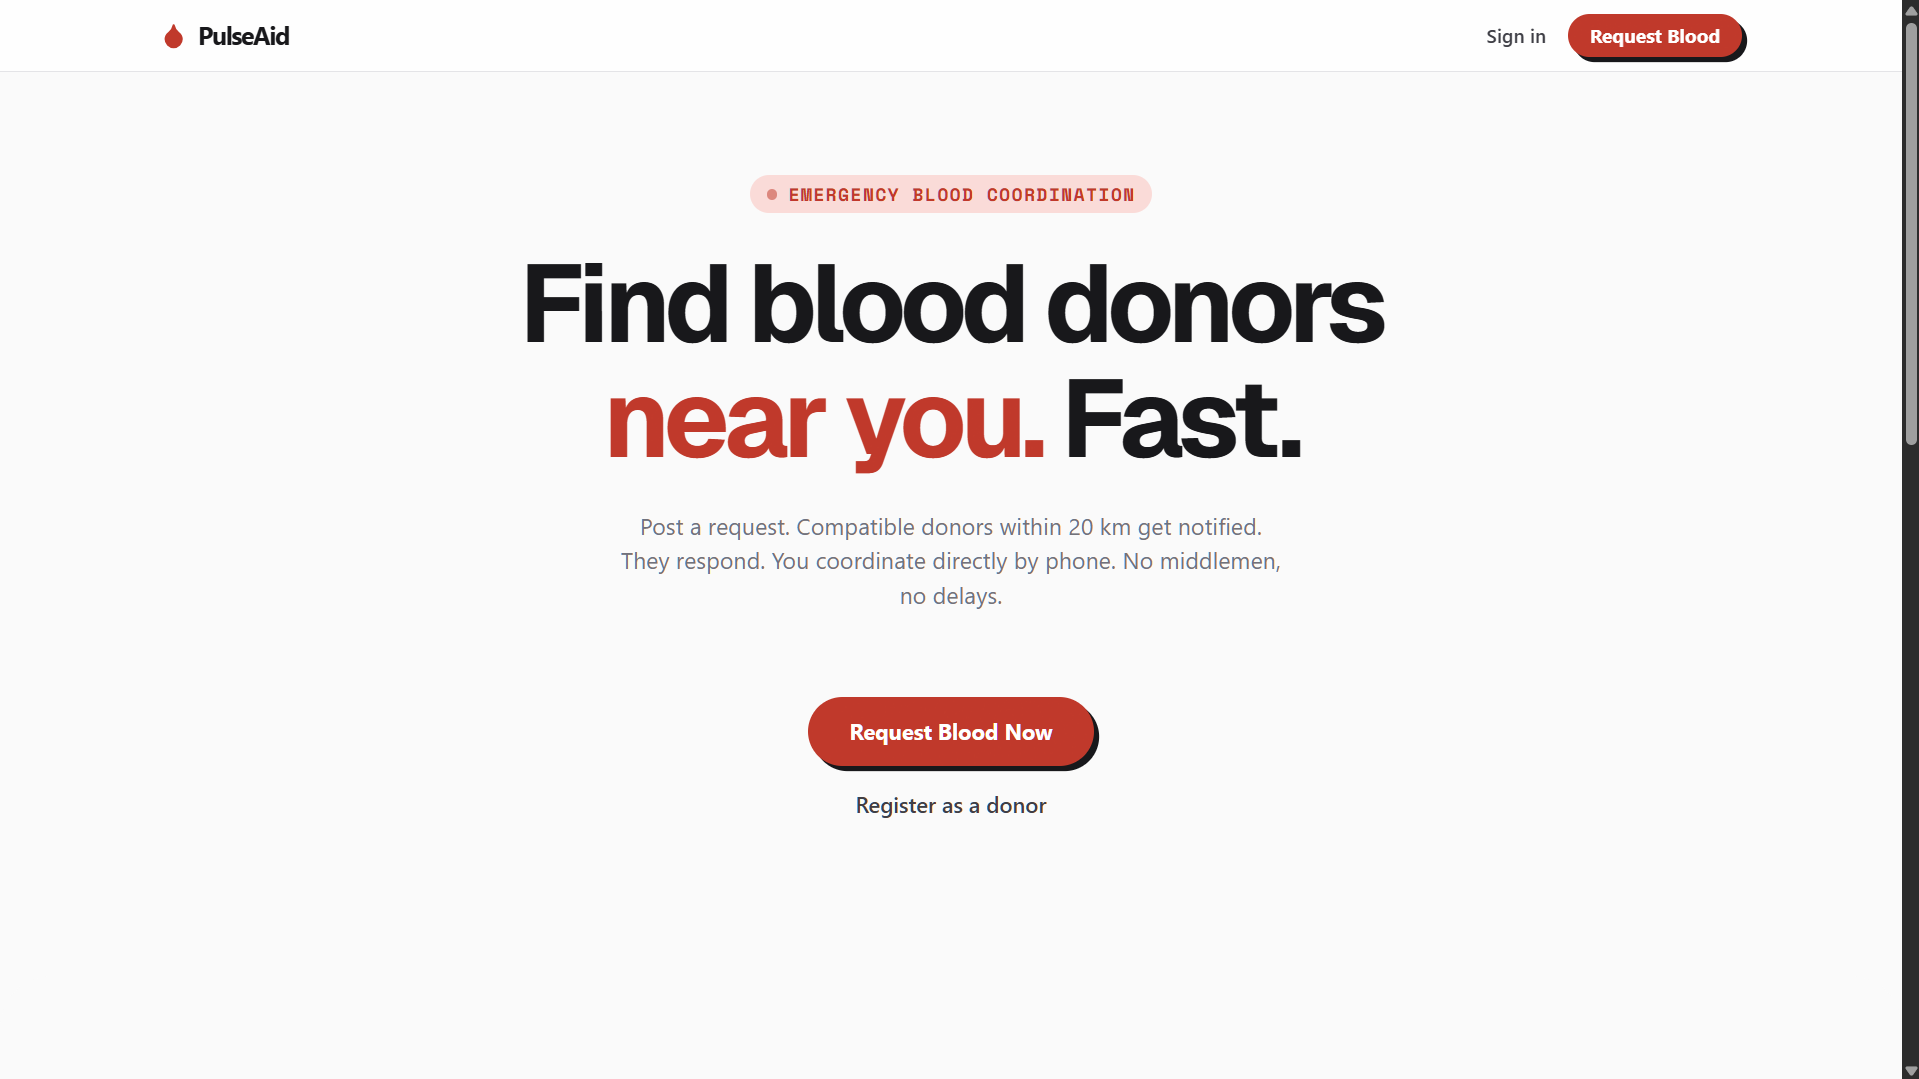
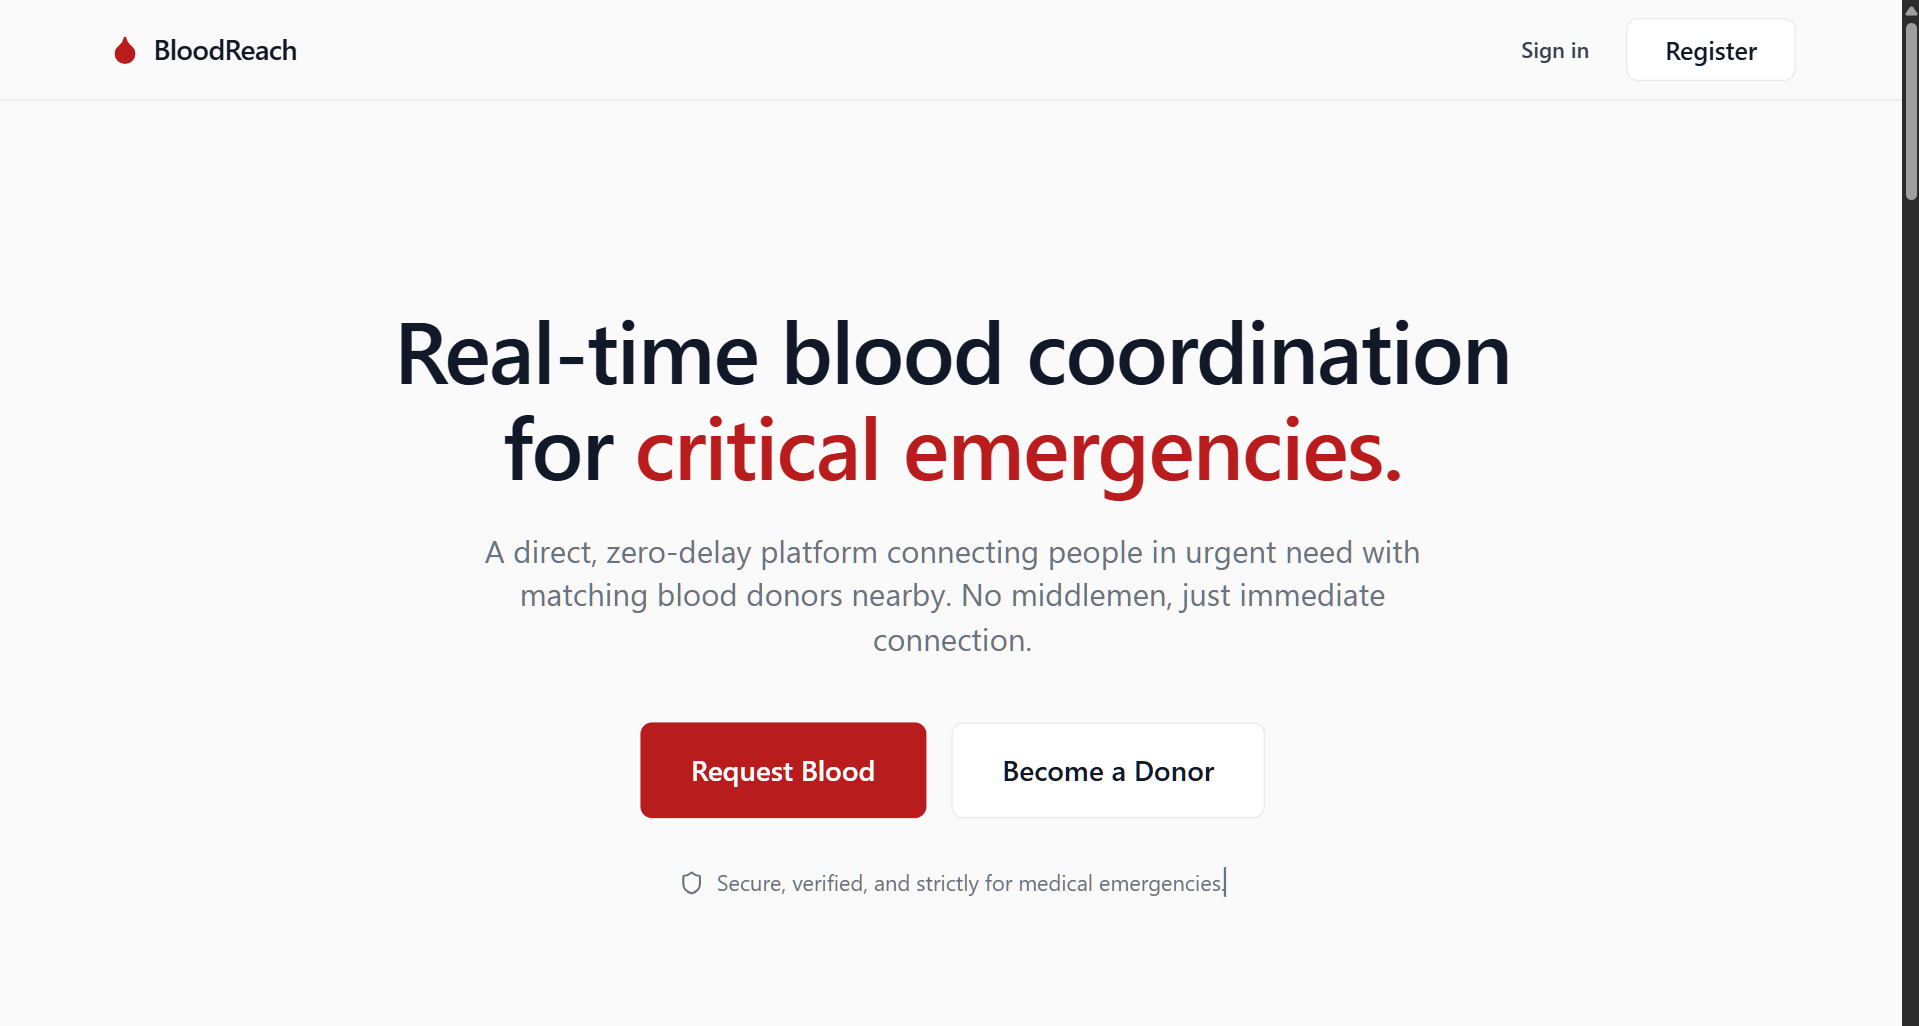
docs: rewrite README and spec for BloodReach identity

diff --git a/frontend/src/app/dashboard/page.tsx b/frontend/src/app/dashboard/page.tsx
@@ -119,7 +119,7 @@ export default function DashboardPage() {
             if (req?.contact_phone) {
                 await AlertService.sendSMS(
                     req.contact_phone,
-                    `PULSE-AID ALERT: Good news! ${profile?.full_name || 'A donor'} has offered to donate blood for ${req.patient_name || 'your request'}. They may contact you shortly. Please check your dashboard for details.`
+                    `BloodReach ALERT: Good news! ${profile?.full_name || 'A donor'} has offered to donate blood for ${req.patient_name || 'your request'}. They may contact you shortly. Please check your dashboard for details.`
                 );
             }
 
@@ -220,7 +220,7 @@ export default function DashboardPage() {
                         </div>
                     )}
 
-                    {/* ROW 1: Identity Panel (4 cols) + Live Pulse Feed (8 cols) */}
+                    {/* ROW 1: Identity Panel (4 cols) + Live Feed Feed (8 cols) */}
                     
                     {/* User Profile Card */}
                     <div className="lg:col-[1/5] lg:row-start-1 bg-white rounded-[var(--radius-card)] shadow-[var(--shadow-clay)] p-6 min-h-[200px] flex flex-col justify-between">
@@ -248,7 +248,7 @@ export default function DashboardPage() {
                         </Link>
                     </div>
 
-                    {/* Live Pulse Card */}
+                    {/* Live Feed Card */}
                     <div className="lg:col-[5/13] lg:row-start-1">
                         <ActivityTimeline />
                     </div>

diff --git a/frontend/src/app/request/[id]/page.tsx b/frontend/src/app/request/[id]/page.tsx
@@ -193,7 +193,7 @@ export default function RequestDetailPage() {
             if (request?.contact_phone) {
                 await AlertService.sendSMS(
                     request.contact_phone, 
-                    `PULSE-AID ALERT: Good news! ${currentUserProfile.full_name || 'A donor'} has offered to donate blood for ${request.patient_name}. They may contact you shortly.`
+                    `BloodReach ALERT: Good news! ${currentUserProfile.full_name || 'A donor'} has offered to donate blood for ${request.patient_name}. They may contact you shortly.`
                 );
             }
             

diff --git a/frontend/src/app/sign-in/[[...sign-in]]/page.tsx b/frontend/src/app/sign-in/[[...sign-in]]/page.tsx
@@ -8,7 +8,7 @@ export default function SignInPage() {
             <div className="w-full max-w-md">
                 <div className="text-center mb-8">
                     <h1 className="text-5xl font-extrabold text-brand-red tracking-tight mb-2">
-                        Pulse<span className="text-brand-blue">Aid</span>
+                        BloodReach
                     </h1>
                     <p className="text-lg text-brand-steel">
                         Welcome back to emergency blood coordination

diff --git a/frontend/src/app/sign-up/[[...sign-up]]/page.tsx b/frontend/src/app/sign-up/[[...sign-up]]/page.tsx
@@ -8,7 +8,7 @@ export default function SignUpPage() {
             <div className="w-full max-w-md">
                 <div className="text-center mb-8">
                     <h1 className="text-5xl font-extrabold text-brand-red tracking-tight mb-2">
-                        Pulse<span className="text-brand-blue">Aid</span>
+                        BloodReach
                     </h1>
                     <p className="text-lg text-brand-steel">
                         Join the life-saving community

diff --git a/frontend/src/components/RequestDetailDrawer.tsx b/frontend/src/components/RequestDetailDrawer.tsx
@@ -156,7 +156,7 @@ export function RequestDetailDrawer({ requestId, onClose, onActionComplete }: Pr
             if (request?.contact_phone) {
                 await AlertService.sendSMS(
                     request.contact_phone,
-                    `PULSE-AID ALERT: ${currentUserProfile.full_name || "A donor"} has offered to donate blood for ${request.patient_name}. They may contact you shortly.`
+                    `BloodReach ALERT: ${currentUserProfile.full_name || "A donor"} has offered to donate blood for ${request.patient_name}. They may contact you shortly.`
                 );
             }
             await fetchRequest();

diff --git a/frontend/src/components/dashboard/ActivityTimeline.tsx b/frontend/src/components/dashboard/ActivityTimeline.tsx
@@ -55,7 +55,7 @@ export function ActivityTimeline() {
     return (
         <div className="bg-white rounded-[var(--radius-card)] shadow-[var(--shadow-clay)] flex flex-col h-[360px] overflow-hidden relative">
             <div className="flex items-center justify-between p-[24px] pb-[16px] sticky top-0 bg-white z-10 border-b border-[var(--color-base-200)]">
-                <h3 className="font-display font-bold text-[0.9375rem] text-[var(--color-base-900)]">Live Pulse</h3>
+                <h3 className="font-display font-bold text-[0.9375rem] text-[var(--color-base-900)]">Live Feed</h3>
                 <div className="bg-[var(--color-safe-light)] text-[var(--color-safe)] font-mono text-[0.625rem] rounded-[var(--radius-pill)] px-[10px] py-[4px] font-bold flex items-center gap-1.5 uppercase tracking-widest">
                     <span className="w-1.5 h-1.5 rounded-full bg-[var(--color-safe)] animate-pulse" />
                     LIVE

diff --git a/frontend/src/components/dashboard/CommunityAnalytics.tsx b/frontend/src/components/dashboard/CommunityAnalytics.tsx
@@ -12,7 +12,7 @@ export function CommunityAnalytics() {
                 <h3 className="font-display font-bold text-[1.125rem] tracking-tight">Community Analytics</h3>
                 <span className="flex items-center gap-1.5 px-2 py-1 rounded-full bg-zinc-800 border border-zinc-700 text-[10px] font-mono uppercase tracking-widest text-zinc-300">
                     <span className="w-1.5 h-1.5 rounded-full bg-[var(--color-blood)] animate-pulse" />
-                    Network Pulse
+                    Network Activity
                 </span>
             </div>
 

diff --git a/README.md b/README.md
@@ -1,68 +1,86 @@
-# 🩸 PulseAid
-### **The AI-Powered Emergency Blood Command Center**
+# 🩸 BloodReach
 
-![PulseAid Landing Page](./frontend/public/hero-screenshot.png)
+### **Real-time emergency blood coordination, built for precision when every second counts.**
 
-PulseAid is a project I built to solve a problem that hits home for many: the chaotic, frantic search for blood donors during medical emergencies. 
-
-Instead of relying on scattered WhatsApp forwards and hoping for a miracle, PulseAid is a high-speed, direct coordination platform that connects families with compatible donors in their immediate vicinity. No noise, no spam—just action when every second counts.
+BloodReach is a high-trust, minimalist platform designed to bridge the gap between medical emergencies and life-saving donors. Built with a focus on reducing cognitive load and prioritizing action over engagement, it transforms the chaotic search for blood into a structured, immediate coordination system.
 
 ---
 
-## 🧠 Why this is different (The AI Edge)
-Most platforms fail because they force users to fill out long, tedious forms during a crisis. **I solved this using AI.**
+## 🏛️ Design Philosophy
 
-One of the core features I implemented is a **Natural Language Emergency Parser**. Powered by **Groq and Llama-3**, it allows a frantic family member to simply type:
-> *"Urgent! Need 3 units of B+ at Manipal Hospital for surgery, please help!"*
+In an emergency, users are often under extreme stress and unable to think clearly. BloodReach adheres to a strict **Minimalist Healthcare Design System**:
 
-The AI instantly extracts the blood group, urgency level, units, and hospital name, auto-filling the entire request flow. It turns panic into structured data in milliseconds.
-
----
-
-## ⚡ Key Features
-- **AI-Driven Entry**: Skip the forms. Type naturally, let the AI handle the data extraction.
-- **Precision Alerts**: Donors are only notified if their blood type matches and they are within a 20km radius. 
-- **The "Cockpit" Dashboard**: A premium, editorial-style command center that tracks network pulse and emergency requests without the clutter.
-- **Availability Toggle**: A "No-BS" way for donors to go invisible when they can't help, preventing unnecessary pings.
-- **Privacy First**: Direct phone connection for matched donors—no middlemen, no complex chat interfaces.
+- **Reduced Cognitive Load**: No "startup flashy" visuals, loud gradients, or complex dashboard clutter.
+- **Calm, Neutral Palette**: A professional environment using deep reds for critical actions and neutral tones for structure.
+- **Editorial Clarity**: High-contrast typography (Geist/Inter) and generous whitespace to ensure information is scannable in seconds.
+- **Trust-First Architecture**: Built to feel like a stable healthcare utility, not a social media tool.
 
 ---
 
-## 🛠️ The Tech Stack
-I chose a modern, high-performance stack to ensure the app is both beautiful and bulletproof:
-- **Frontend**: Next.js 15 (App Router) + Tailwind CSS + Framer Motion.
-- **AI Engine**: Groq SDK + Llama-3-70b (for sub-200ms parsing).
-- **Backend**: Supabase (PostgreSQL + Realtime) & Django.
-- **Auth**: Clerk (Secure, modern identity management).
+## 🧠 The AI Engine
+
+One of the platform's core breakthroughs is the **Natural Language Emergency Parser**. Powered by **Llama-3 (Groq)**, it allows users to bypass tedious forms during a crisis.
+
+Family members can simply describe the situation in plain text:
+> *"Help! Need 2 units of O-negative at Apollo Hospital Jubilee Hills for a surgery scheduled in 1 hour."*
+
+The AI instantly extracts:
+- **Blood Group**: `O-`
+- **Urgency**: `IMMEDIATE`
+- **Location**: `Apollo Hospital, Jubilee Hills`
+- **Units**: `2`
+
+This turns raw panic into actionable, structured data in under 200ms.
 
 ---
 
-## 🚀 Running it locally
+## ⚡ Core Features
 
-### 1. The Frontend (Next.js)
+- **AI-Powered Rapid Entry**: Natural language processing to eliminate form friction.
+- **Precision Geo-Alerting**: Donors are only notified if they match the blood type and are within the immediate 20km radius.
+- **Live Activity Feed**: A real-time timeline of requests and responses to maintain network momentum.
+- **Donor Integrity Control**: A "One-Click" availability toggle and a medical-grade recovery cooldown system.
+- **Privacy-First Connection**: Direct coordination without intermediaries, ensuring speed and data sovereignty.
+
+---
+
+## 🛠️ The Stack
+
+- **Frontend**: Next.js 15 (App Router) + Tailwind CSS.
+- **Styling**: Custom Variable-based Design System (Minimalist Healthcare).
+- **AI**: Groq SDK + Llama-3-70b.
+- **Data & Realtime**: Supabase (PostgreSQL + Realtime Hooks).
+- **Auth**: Clerk (Secure Identity Management).
+
+---
+
+## 🚀 Development Setup
+
+### 1. Frontend Setup
 ```bash
 cd frontend
 npm install
-# Add your GROQ_API_KEY and CLERK keys to .env.local
+# Configure your .env.local with Clerk, Supabase, and Groq keys
 npm run dev
 ```
 
-### 2. The Backend (Django)
+### 2. Backend (Optional/Legacy)
+The platform is currently migrating to a Next.js Serverless architecture, but the legacy Django service can be run via:
 ```bash
 cd backend
 python -m venv venv
-source venv/bin/activate  # or venv\Scripts\activate on Windows
+source venv/bin/activate
 pip install -r requirements.txt
-python manage.py migrate
 python manage.py runserver
 ```
 
 ---
 
-## 📍 Road Ahead
-- **Automated SMS/WhatsApp Alerts**: Moving beyond app notifications for 100% reach.
-- **Geospatial Routing**: Showing donors the exact travel time to the hospital.
-- **Smart Cooldown**: Automatic donor "invisible" status after a successful donation.
+## ⚖️ Medical Disclaimer
+**BloodReach is a coordination platform and does not provide medical services.** 
+The platform is intended to connect donors and seekers; all medical procedures, blood testing, and transfusions must be performed by certified medical professionals in clinical settings.
+
+---
 
 ## License
-MIT. Built with heart in Bangalore. 🩸
+MIT. Built with heart and intentionality for the global health community. 🩸